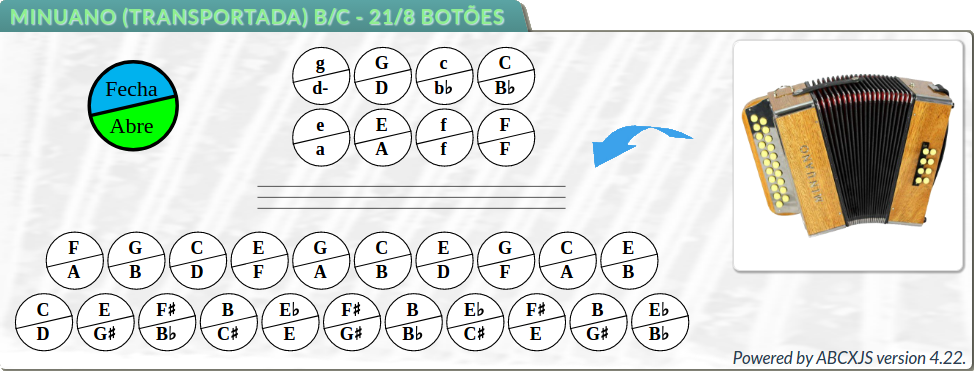
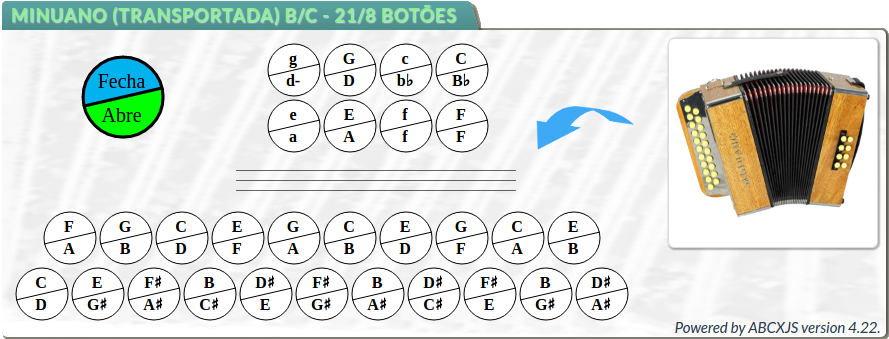
Pagina de informação sobre tablatura transportada

diff --git a/html/tablaturaTransportada.pt_BR.html b/html/tablaturaTransportada.pt_BR.html
@@ -36,7 +36,7 @@ notação abc, tablatura ">
         </div>
         <div id="helpContainer" class="helpContent">
         <h1>Sistemática da Tablatura para Acordeon Diatônico</h1>
-        <h5>Afinação Nordestina (transportada)</h5>
+        <h5>Afinação Cromática Nordestina Transportada</h5>
         <table>
             <tbody><tr><td style="width: 50%;">
                 <br>
@@ -45,19 +45,18 @@ notação abc, tablatura ">
                         <br>Colaboração: PROF. CEZAR FERREIRA
                         <br>Bacharel em Música pela Universidade Düsseldorf/Alemanha
                         <br><a href="mailto:prof.cezar.ferreira@gmail.com">prof.cezar.ferreira@gmail.com</a>
-                        <br>Tel. +55 (51) 8129-8107</p>
+                        <br>Tel. +55 (51) 98129-8107</p>
                 </td>
             </tr>
         </tbody></table>
         <h2>Conhecendo a Gaita de 8 Baixos</h2>
-            <p>Antes
-de começarmos a entender o sistema de tablaturas para acordeon, vamos
-examinar a disposição dos botões de uma gaita de 8 baixos.</p>
-            <p>Tomemos como exemplo um acordeon afinado em Si/Dó, segundo a <b>“Afinação Nordestina Transportada”</b>.
+            <p>Antes de começarmos a entender o sistema de tablaturas para acordeon, vamos
+            examinar a disposição dos botões de uma gaita de 8 baixos.</p>
+            <p>Tomemos como exemplo um acordeon afinado em Si/Dó, segundo a <b>“Afinação Cromática Nordestina Transportada”</b>.
 			Os botões devem estar dispostos conforme a figura abaixo:</p>
             <img src="../img/figura1t.teclado.png" alt="Disposição do teclado da gaita Minuano de 21/8 botões" title="Disposição do teclado da gaita Minuano de 21/8 botões">
             <br><span class="legenda">Figura 1: A gaita Minuano (transportada) de 21/8 botões, afinada em Si e Dó.</span>
-            <p>Por se tratar de um acordeon diatônico, observe que cada botão emite duas notas distintas. Diferentemente do padrão 
+            <p>Por se tratar de um acordeon bissonoro, observe que cada botão emite duas notas distintas. Diferentemente do padrão 
                de afinação natural brasileira, não existe a nota “pedal” (botão que emite a mesma nota fechando ou abrindo o fole).</p>
             <p>Neste material, adotamos algumas convenções. A saber:</p>
             <ul>
@@ -69,8 +68,13 @@ examinar a disposição dos botões de uma gaita de 8 baixos.</p>
             <h3>Breve explicação sobre as cifras</h3>
             <p> As cifras são usadas em todos os instrumentos musicais. Elas são compostas por letras, sinais e números. 
             As notas básicas são representadas por sete (7) letras maiúsculas do alfabeto. Cada letra representa uma 
-            nota: <b>A = LÁ; B = SI; C = DÓ; D = RÉ; E = MI; F = FÁ; G = SOL.</b></p>
-        <p class="page-break"></p><h2>Conhecendo os Baixos (Mão esquerda)</h2>
+            nota:
+            </p>
+            <table class="tabCifra" >
+                <tr><th>A</th><th>B</th><th>C</th><th>D</th><th>E</th><th>F</th><th>G</th></tr>
+                <tr><td>Lá</td><td>Si</td><td>Dó</td><td>Ré</td><td>Mi</td><td>Fá</td><td>Sol</td></tr>
+            </table>
+            <p class="page-break"></p><h2>Conhecendo os Baixos (Mão esquerda)</h2>
             <p>Primeiramente, passe a mão esquerda através da alça dos baixos. Os oito botões que são acessíveis para 
                 você agora, estão dispostos em quatro pares, conforme a figura 2.</p>
             <table>
@@ -85,14 +89,14 @@ examinar a disposição dos botões de uma gaita de 8 baixos.</p>
                             <li>o botão superior representa o acorde (letra minúscula)</li>
                         </ul>
                         Observe ainda que, obteremos o baixo em Sol (G) e acorde sol (g)  fechando o fole, 
-                            <br>enquanto que, abrindo o fole, obteremos o baixo em Ré (D) e o acorde ré (d).
+                            <br>enquanto que, abrindo o fole, obteremos o baixo em Ré (D) e o acorde ré menor (d-).
                     </td>
                 </tr>
             </tbody></table>
             <span class="legenda">Figura 2: Mapa dos baixos de um acordeon diatônico afinado em Si e Dó.</span>
         <h2>Enumerando os Botões (Mão direita)</h2>
             <p>Considere
-a gaita na posição horizontal e o lado esquerdo como o topo da mesma.
+a gaita na posição horizontal e o lado da mão esquerda como o topo da mesma.
 Para identificar os botões, vamos contá-los da esquerda para a direita
 (isto é, de cima para baixo). Também, para diferenciar uma fileira de
 botões da outra, vamos contá-las de fora (primeira fileira ou fileira
@@ -132,7 +136,8 @@ simultaneamente. Note que, no exemplo acima, temos a representação de
 dois compassos. No primeiro deles, tocam-se os <b>baixos de Sol</b>, enquanto pressiona-se o <b>botão número 6</b> da primeira fileira, 
                 com o fole <b>fechando</b>. O segundo compasso indica a execução dos <b>baixos de Ré</b> então pressiona-se o botão <b>botão número 6</b> 
                 da primeira fileira, com o fole <b>abrindo</b>.</p>
-
+            <p>Observe, também, que por comodidade, na tablatura, os acordes menores não contém o hífen que os caracterizam no layout do teclado do acordeon. 
+            Isto não causa nenhum prejuízo na interpretação porque se o acorde for menor, não haverá outro de mesmo tom, em modo maior.</p>
             <h3>Exercício 1:</h3>
             <p><b>Nota:</b> Para este primeiro exercício, considere o par de botões de baixos no topo, do lado de fora.</p>
             <center><img src="../img/figura5.exercicio1.png" alt="Exercício 1"></center>
@@ -145,7 +150,7 @@ o baixo (G) alternando com o acorde (g), enquanto você fecha o
 acordeon: Você ouvirá o baixo e, em seguida, um acorde em sol maior.
 Quando o acordeon estiver fechado, continue o movimento, agora abrindo,
 mas desta vez sem o uso do registro de ar. Você vai ouvir o baixo (D) e
-o acorde (d) em ré maior.</li>
+o acorde (d) em ré menor.</li>
             </ol>
             <p>Repita
 este exercício, mas agora, cada vez que você pressionar o botão do
@@ -179,30 +184,17 @@ muito importante manter a disciplina durante a execução para poder
 ganhar agilidade e adquirir a independência de movimento dos dedos
 enquanto coordena as duas mãos. Estas dicas podem ajudar na deste
 exercício (e de todos os demais):</p> 
-            <ul><li>Comece devagar</li>
-                <li>Levante o dedo (liberando o botão) após cada nota, mesmo se tocar a mesma nota várias vezes seguidas</li>
-                <li>Marque o ritmo com os pés (pisando com o baixo e levantando o pé durante o acorde)</li>
-                <li>Quando memorizar a peça, cantarole enquanto toca</li>
-            </ul>
-            
-            <h3>Exercício 2:</h3>
-            <p>Se
-você já está confortável com o exercício acima, passemos agora a
-exercitar o ritmo de valsa. A valsa possui compassos de 3 tempos
-(iguais), que no acordeon vamos representar na baixaria tocando uma vez
-o baixo e duas vezes o acorde correspondente. A fim de acompanhar os
-baixos (e treinar também a mão direita), vamos tocar junto com os
-baixos, alguns botões. </p><p><b>Nota:</b> Para este exercício, considere o par inferior de botões de baixos, na fileira externa.</p>
-            <center><img src="../img/figura6.exercicio2.png" alt="Exercício 2"></center>
-            <p>Proceda da seguinte maneira:</p>
-            <ul>
-                <li>Execute as partes de cada mão separadamente, até decorar bem os movimentos</li>
-                <li>Depois, tente coordenar os movimentos da mão esquerda com os da mão direita</li>
-                <li>Toque dois compassos com o fole abrindo e dois compassos com o fole fechando</li><br>
+<ul>
+    <li>Comece devagar</li>
+    <li>Levante o dedo (liberando o botão) após cada nota, mesmo se tocar a mesma nota várias vezes seguidas</li>
+    <li>Marque o ritmo com os pés (pisando com o baixo e levantando o pé durante o acorde)</li>
+    <li>Quando memorizar a peça, cantarole enquanto toca</li>
+    <li>Execute as partes de cada mão separadamente, até decorar bem os movimentos</li>
+    <li>Depois, tente coordenar os movimentos da mão esquerda com os da mão direita</li>
+    <li>Para variar, toque dois compassos com o fole abrindo e dois compassos com o fole fechando</li><br>
 </ul>
-<h2>Repertório no site<br>
-</h2>
-
+            
+<h2>Repertório no site</h2>
             
 <p>No site você encontrará, além destes exercícios, vários outros e,
 principalmente, estamos iniciando também um trabalho com a <span style="font-weight: bold;">sanfona nordestina transportada</span>.

diff --git a/html/tablatura.pt_BR.html b/html/tablatura.pt_BR.html
@@ -35,7 +35,7 @@ notação abc, tablatura ">
         </div>
         <div id="helpContainer" class="helpContent">
         <h1>Sistemática da Tablatura para Acordeon Diatônico</h1>
-        <h5>Afinação Natural Brasileira</h5>
+        <h5>Afinação Diatônica Brasileira Natural</h5>
         <table>
             <tbody><tr><td style="width: 50%;">
                 <br>
@@ -44,19 +44,18 @@ notação abc, tablatura ">
                         <br>Colaboração: PROF. CEZAR FERREIRA
                         <br>Bacharel em Música pela Universidade Düsseldorf/Alemanha
                         <br><a href="mailto:prof.cezar.ferreira@gmail.com">prof.cezar.ferreira@gmail.com</a>
-                        <br>Tel. +55 (51) 8129-8107</p>
+                        <br>Tel. +55 (51) 98129-8107</p>
                 </td>
             </tr>
         </tbody></table>
         <h2>Conhecendo a Gaita de 8 Baixos</h2>
-            <p>Antes
-de começarmos a entender o sistema de tablaturas para acordeon, vamos
-examinar a disposição dos botões de uma gaita de 8 baixos.</p>
+            <p>Antes de começarmos a entender o sistema de tablaturas para acordeon, vamos
+               examinar a disposição dos botões de uma gaita de 8 baixos.</p>
             <p>Tomemos como exemplo um acordeon afinado em Sol/Dó, segundo a <b>“Afinação Diatônica Brasileira Natural”</b>. 
 			Os botões devem estar dispostos conforme a figura abaixo:</p>
             <img src="../img/figura1.teclado.png" alt="Disposição do teclado da gaita Hohner de 21/8 botões" title="Disposição do teclado da gaita Hohner de 21/8 botões">
             <br><span class="legenda">Figura 1: A gaita Hohner de 21/8 botões, afinada em Sol e Dó.</span>
-            <p>Por se tratar de um acordeon diatônico, observe que cada botão emite duas notas distintas, 
+            <p>Por se tratar de um acordeon bissonoro, observe que cada botão emite duas notas distintas, 
                salvo o botão destacado em vermelho, que é chamado de “pedal”. Por isso, também, chamamos o 
                acordeon diatônico de “Gaita Ponto”.</p>
             <p>Neste material, adotamos algumas convenções. A saber:</p>
@@ -69,8 +68,13 @@ examinar a disposição dos botões de uma gaita de 8 baixos.</p>
             <h3>Breve explicação sobre as cifras</h3>
             <p> As cifras são usadas em todos os instrumentos musicais. Elas são compostas por letras, sinais e números. 
             As notas básicas são representadas por sete (7) letras maiúsculas do alfabeto. Cada letra representa uma 
-            nota: <b>A = LÁ; B = SI; C = DÓ; D = RÉ; E = MI; F = FÁ; G = SOL.</b></p>
-        <p class="page-break"></p><h2>Conhecendo os Baixos (Mão esquerda)</h2>
+            nota: 
+            </p>
+            <table class="tabCifra" >
+                <tr><th>A</th><th>B</th><th>C</th><th>D</th><th>E</th><th>F</th><th>G</th></tr>
+                <tr><td>Lá</td><td>Si</td><td>Dó</td><td>Ré</td><td>Mi</td><td>Fá</td><td>Sol</td></tr>
+            </table>
+            <p class="page-break"></p><h2>Conhecendo os Baixos (Mão esquerda)</h2>
             <p>Primeiramente, passe a mão esquerda através da alça dos baixos. Os oito botões que são acessíveis para 
                 você agora, estão dispostos em quatro pares, conforme a figura 2.</p>
             <table>
@@ -92,7 +96,7 @@ examinar a disposição dos botões de uma gaita de 8 baixos.</p>
             <span class="legenda">Figura 2: Mapa dos baixos de um acordeon diatônico afinado em Sol e Dó.</span>
         <h2>Enumerando os Botões (Mão direita)</h2>
             <p>Considere
-a gaita na posição horizontal e o lado esquerdo como o topo da mesma.
+a gaita na posição horizontal e o lado da mão esquerda como o topo da mesma.
 Para identificar os botões, vamos contá-los da esquerda para a direita
 (isto é, de cima para baixo). Também, para diferenciar uma fileira de
 botões da outra, vamos contá-las de fora (primeira fileira ou fileira
@@ -256,6 +260,5 @@ DOUR, Yann. <i>Schule für Diatonisches Akkordion – Band 1.</i> Reichelsheim, 
 Accesse nosso site para imprimir e executar as partituras:<br>
 <a href="http://flvani.github.io/diatonic-map/mapa.html" target="_blank">http://flvani.github.io/diatonic-map/mapa.html</a>
 <br>
-
 </div>    
     </body></html>

diff --git a/mapa.html b/mapa.html
@@ -88,7 +88,7 @@ notação abc, tablatura " />
                                           <li><a id="DR_tutorial" target="_blank" href="html/tutoriais.pt_BR.html" >Tutoriais</a></li>
                                           <li><a id="DR_accordion_maps" target="_blank" href="html/mapas.pt_BR.html" >Mapas para acordeons</a></li>
                                           <li><a id="DR_tablature" target="_blank" href="html/tablatura.pt_BR.html" >Tablaturas para acordeons</a></li>
-                                          <!--li><a id="DR_tablatureT" target="_blank" href="html/tablaturaTransportada.pt_BR.html" >Tablaturas para transportada&nbsp;<img src="img/novo.png" width="32" height="30" alt="Novo" title="Novo"/>&nbsp;&nbsp;&nbsp;&nbsp;&nbsp;&nbsp;</a></li-->
+                                          <li><a id="DR_tablatureT" target="_blank" href="html/tablaturaTransportada.pt_BR.html" >Tablaturas para transportada&nbsp;<img src="img/novo.png" width="32" height="30" alt="Novo" title="Novo"/>&nbsp;&nbsp;&nbsp;&nbsp;&nbsp;&nbsp;</a></li>
                                           <li><a id="DR_repeatsyms" target="_blank" href="html/sinaisRepeticao.pt_BR.html" >Símbolos de Repetição</a></li>
                                           <li><a id="DR_abc_editor" target="_blank" href="html/estudioABCX.pt_BR.html" >Estúdio ABCX</a></li>
                                           <li><a id="DR_abc_format" target="_blank" href="html/formatoABCX.pt_BR.html" >Formato ABCX</a></li>

diff --git a/css/help.css b/css/help.css
@@ -11,6 +11,23 @@ body {
 
 }
 
+.tabCifra {
+    border-collapse: collapse;
+    border: 1px solid black;
+    width: 70%;
+    margin: auto;
+}
+
+.tabCifra th, .tabCifra td {
+    border: 1px solid black;
+    width:80px;
+    text-align: center;
+}
+
+.tabCifra th {
+    font-weight: bold;
+}
+
 .btn {
   border: 1px outset buttonface;
   color: buttontext;
